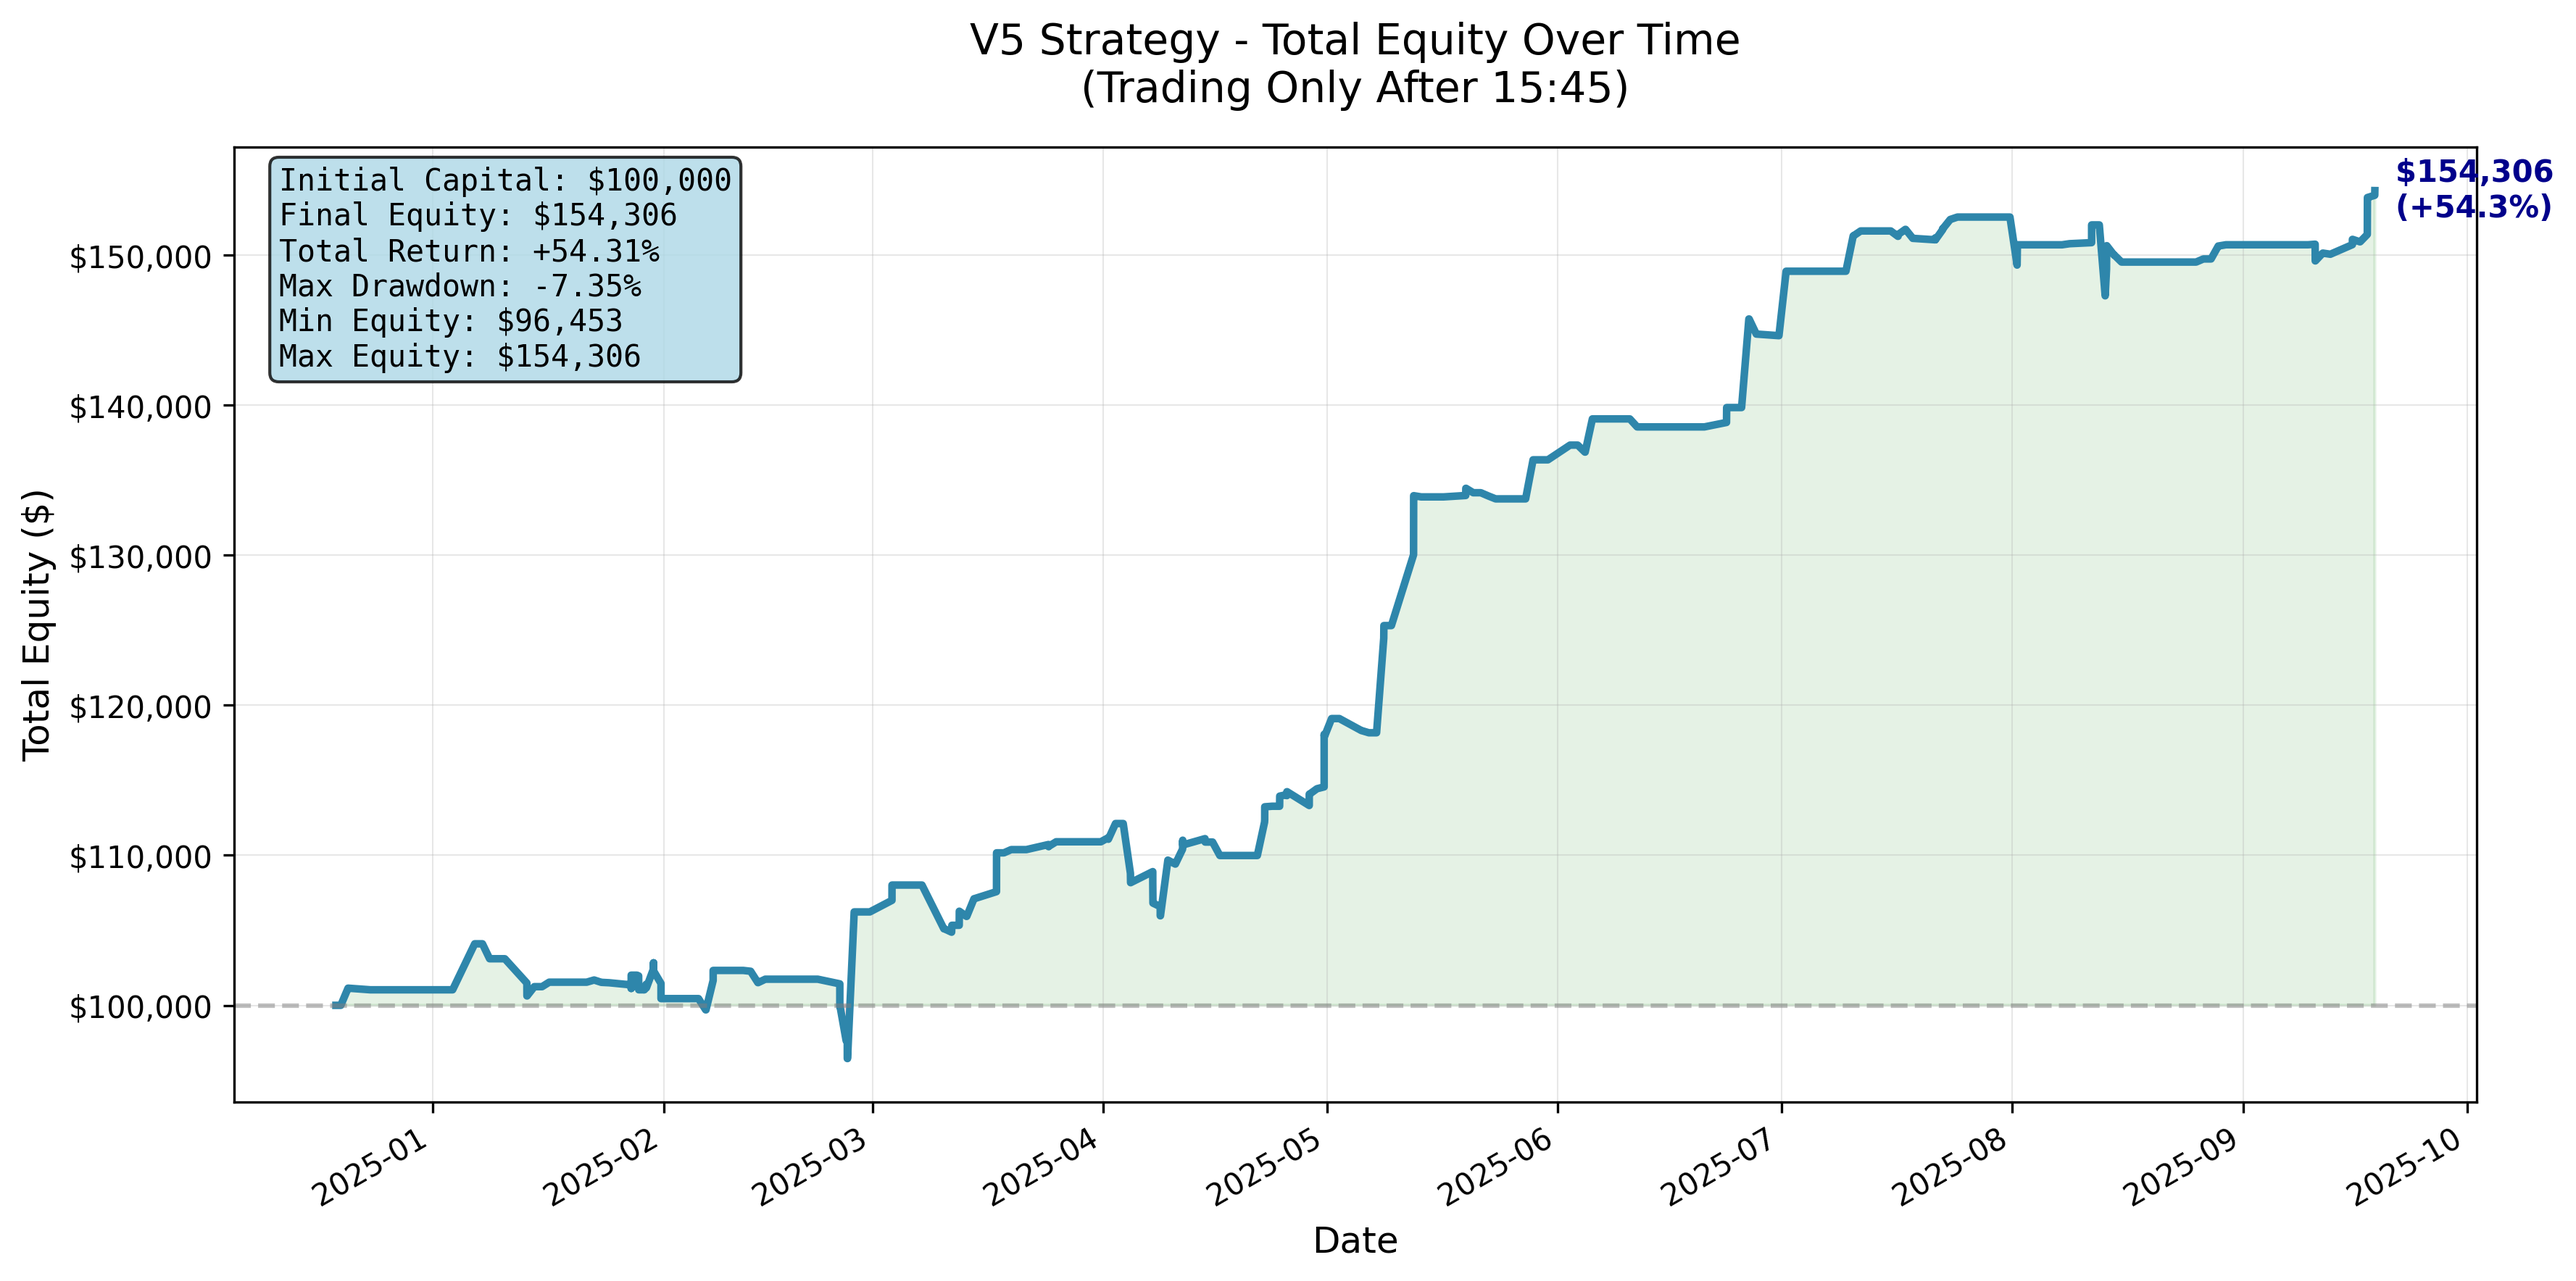
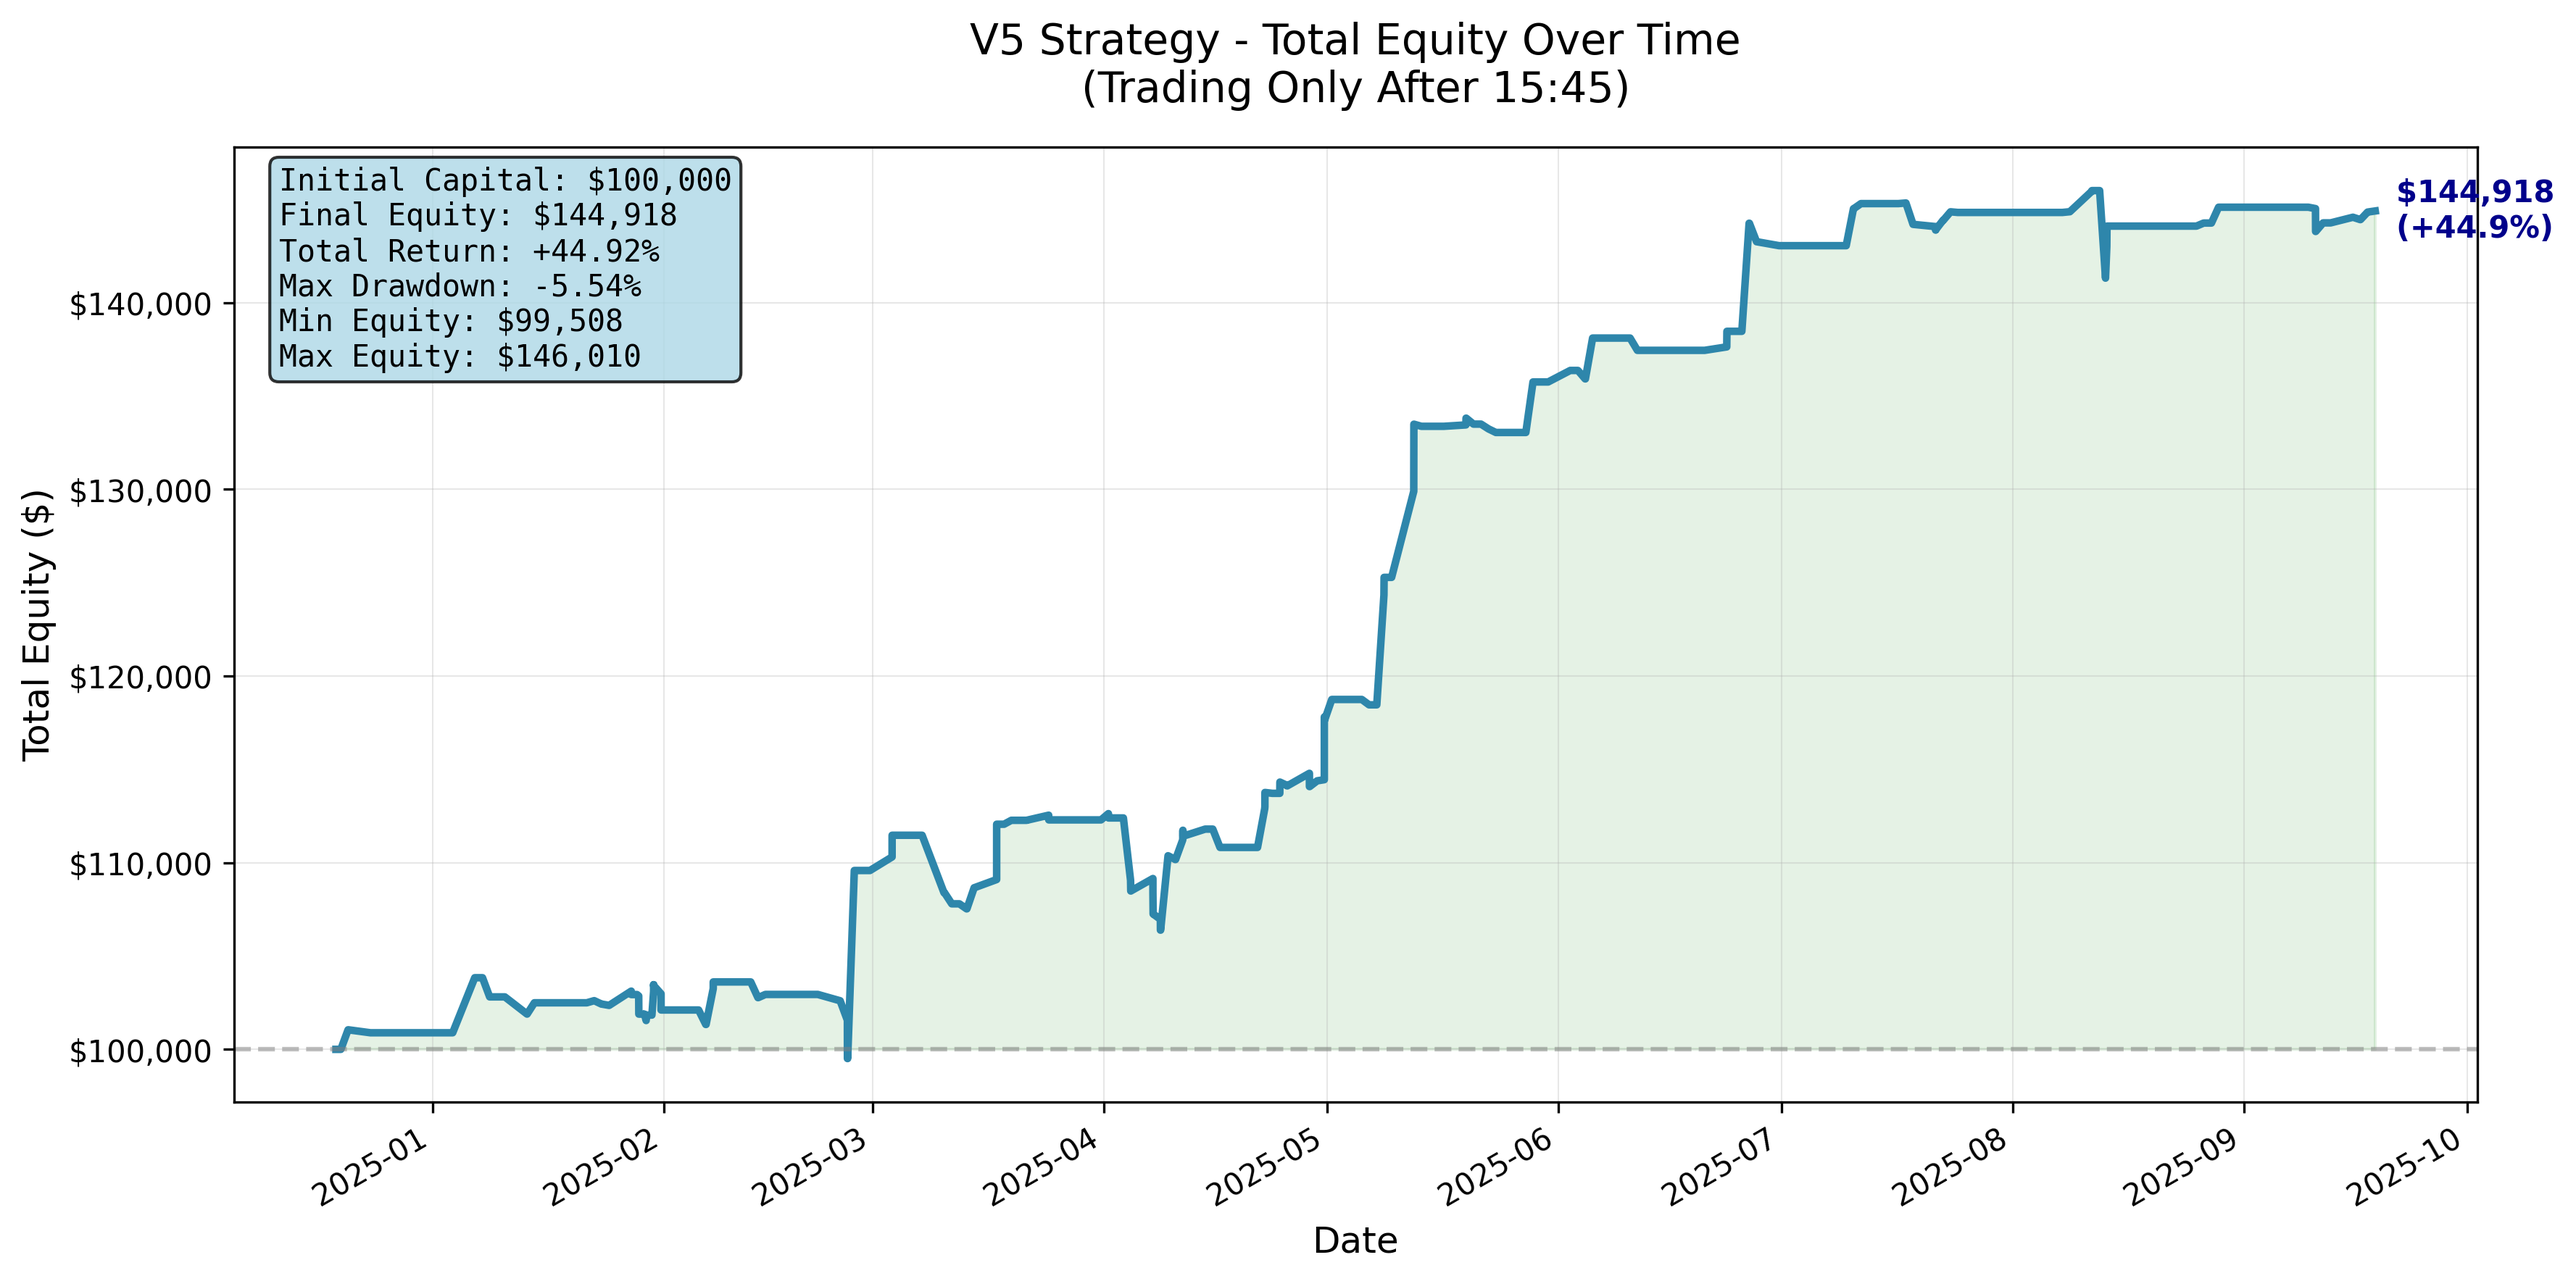
feat: add data

diff --git a/option_flow_backtest_v5_late_only.py b/option_flow_backtest_v5_late_only.py
@@ -33,13 +33,14 @@ class OptionFlowBacktestV5:
         self.take_profit = 0.25
         self.stop_loss = -0.1
         self.blacklist_days = 5  # Don't buy same stock for 5 days
-        
+        self.entry_delay = 5  # Delay in minutes for entry
         # Late trading parameters
-        self.trade_start_time = (15, 30)  # Only trade after 3:45 PM
+        self.trade_start_time = (15, 30)  # Only trade after 3:30 PM
         
         # Transaction costs
         self.commission_per_share = 0.005  # $0.005 per share
         self.min_commission = 1.0  # Minimum $1 per trade
+        self.slippage = 0.001  # 0.1% slippage per side (0.2% round trip)
         
         # Data paths
         self.stock_data_dir = "stock_data"
@@ -144,17 +145,25 @@ class OptionFlowBacktestV5:
         return pd.DataFrame()
     
     def execute_trade(self, symbol: str, signal_time: datetime, action: str, price: float, shares: int = 0):
-        """Execute and record trades with commission"""
+        """Execute and record trades with commission and slippage"""
         commission = self.calculate_commission(shares)
+        
+        # Apply slippage
+        if action == 'BUY':
+            actual_price = price * (1 + self.slippage)  # Pay more when buying
+        else:
+            actual_price = price * (1 - self.slippage)  # Receive less when selling
         
         trade = {
             'symbol': symbol,
             'time': signal_time,
             'action': action,
             'price': price,
+            'actual_price': actual_price,
             'shares': shares,
-            'gross_value': price * shares,
-            'commission': commission
+            'gross_value': actual_price * shares,
+            'commission': commission,
+            'slippage_cost': abs(actual_price - price) * shares
         }
         
         if action == 'BUY':
@@ -179,12 +188,16 @@ class OptionFlowBacktestV5:
             if symbol in self.positions:
                 entry_price = self.positions[symbol]['entry_price']
                 buy_commission = self.calculate_commission(shares)
+                buy_slippage = entry_price * self.slippage * shares
+                sell_slippage = trade['slippage_cost']
                 total_commission = buy_commission + commission
+                total_slippage = buy_slippage + sell_slippage
                 
+                # Calculate P&L including slippage
                 trade['gross_pnl'] = (price - entry_price) * shares
-                trade['net_pnl'] = trade['gross_pnl'] - total_commission
+                trade['net_pnl'] = trade['gross_pnl'] - total_commission - total_slippage
                 trade['gross_return'] = (price - entry_price) / entry_price
-                trade['net_return'] = trade['net_pnl'] / (entry_price * shares + buy_commission)
+                trade['net_return'] = trade['net_pnl'] / (entry_price * shares + buy_commission + buy_slippage)
                 del self.positions[symbol]
         
         self.trades_history.append(trade)
@@ -196,7 +209,7 @@ class OptionFlowBacktestV5:
             return False
         
         # Find the first bar at or after signal time + 1 minute
-        entry_time_target = signal_time + timedelta(minutes=1)
+        entry_time_target = signal_time + timedelta(minutes=self.entry_delay)
         
         # Find the first bar that is at or after the target entry time AND during regular hours
         entry_idx = None
@@ -270,7 +283,8 @@ class OptionFlowBacktestV5:
         self.daily_position_used[date] += position_pct
         
         # Execute buy
-        print(f"  [BUY] {symbol}: {shares} shares @ ${entry_price:.2f} at {entry_time} (Position: {position_pct:.1%})")
+        actual_buy_price = entry_price * (1 + self.slippage)
+        print(f"  [BUY] {symbol}: {shares} shares @ ${entry_price:.2f} (actual: ${actual_buy_price:.2f}) at {entry_time} (Position: {position_pct:.1%})")
         self.execute_trade(symbol, entry_time, 'BUY', entry_price, shares)
         
         # Add to blacklist for 5 days
@@ -357,8 +371,13 @@ class OptionFlowBacktestV5:
             
             print(f"  Signal time (UTC-4): {signal_time}")
             
+            # # skip friday
+            # if signal_time.weekday() == 4:
+            #     print(f"  Skipping - Friday")
+            #     continue
+            
             # Skip if signal is too close to market close (after 3:58 PM)
-            if signal_time.hour == 15 and signal_time.minute >= 58:
+            if signal_time.hour == 15 and signal_time.minute >= 59 - self.entry_delay:
                 print(f"  Skipping - signal too close to market close")
                 continue
             
@@ -414,6 +433,7 @@ class OptionFlowBacktestV5:
         total_gross_pnl = sum(trade.get('gross_pnl', 0) for trade in self.trades_history)
         total_net_pnl = sum(trade.get('net_pnl', 0) for trade in self.trades_history)
         total_commission = sum(trade.get('commission', 0) for trade in self.trades_history)
+        total_slippage = sum(trade.get('slippage_cost', 0) for trade in self.trades_history)
         total_return = (self.capital - self.initial_capital) / self.initial_capital
         
         # Get winning and losing trades
@@ -446,6 +466,7 @@ class OptionFlowBacktestV5:
         print(f"Final Capital: ${self.capital:,.2f}")
         print(f"Gross P&L: ${total_gross_pnl:,.2f}")
         print(f"Total Commission: ${total_commission:,.2f}")
+        print(f"Total Slippage: ${total_slippage:,.2f}")
         print(f"Net P&L: ${total_net_pnl:,.2f}")
         print(f"Total Return: {total_return:.2%}")
         
